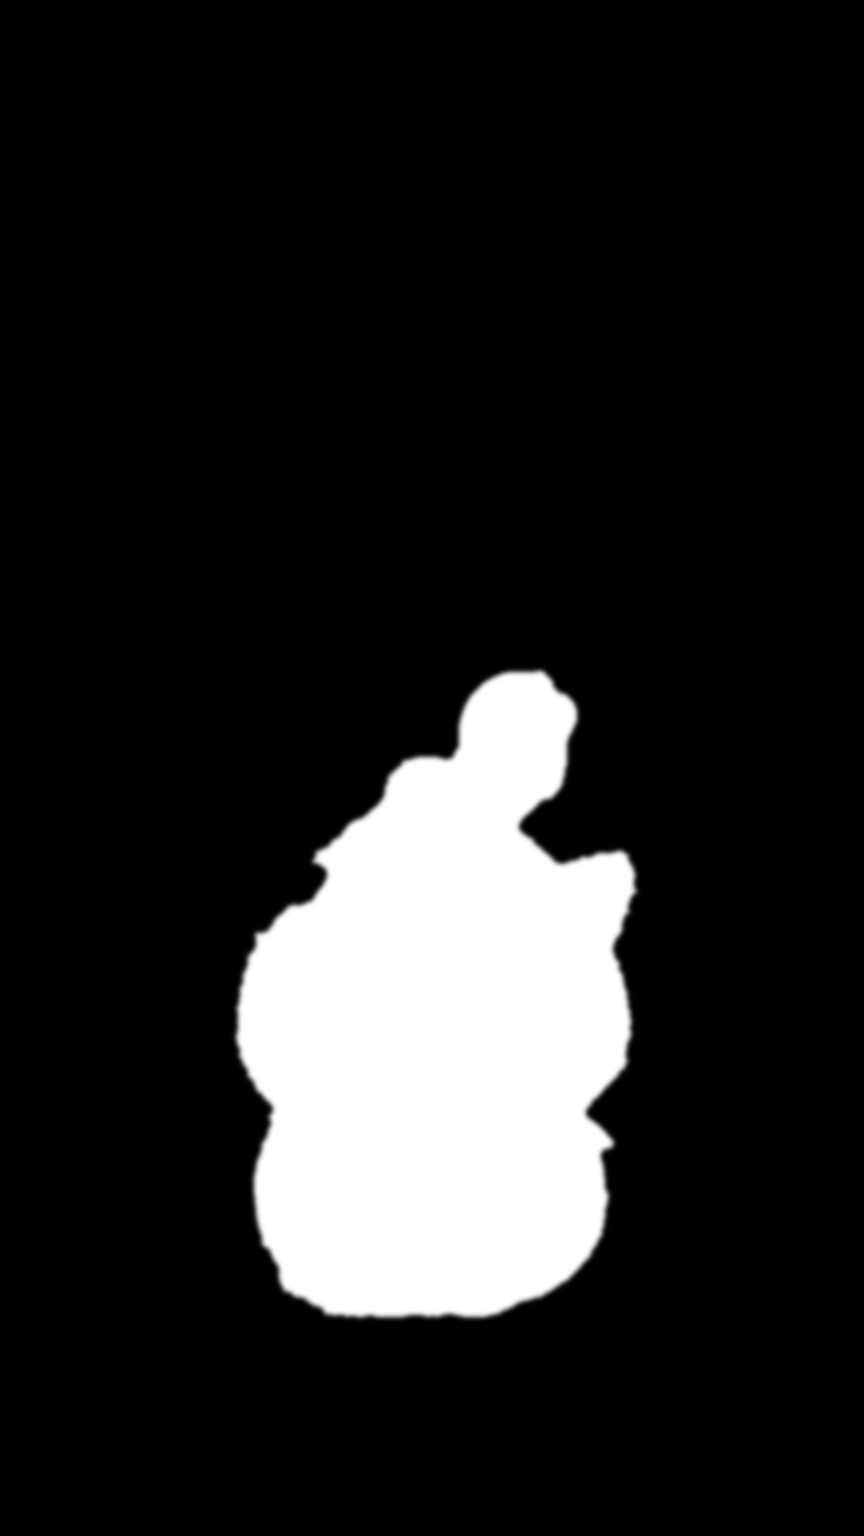
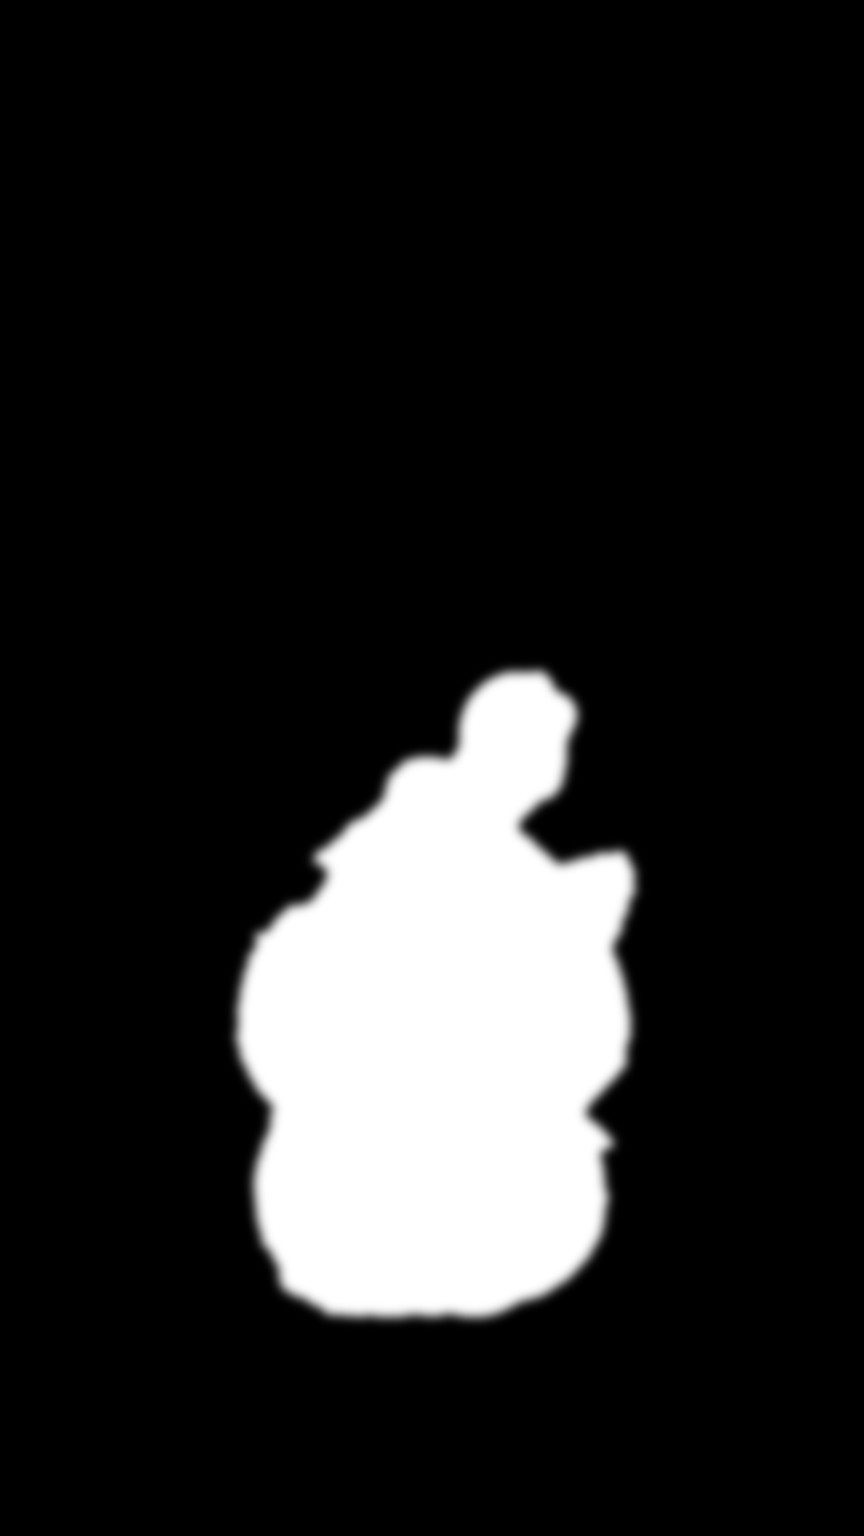
jeju_cherry: fit-to-width + reduce cat cutout look
- Add per-scene fit mode (?fit=cover|width). jeju_cherry defaults to 'width' so
  the full 9:16 composition shows instead of cover-cropping the sides on tall
  phones; the vertical margin is edge-clamped (sky/ground extend, no black bars).
- Soften the subject matte feather and lower depthScale (1.84->1.55) so the cat
  sits in the scene instead of reading as a popped-forward sticker cutout.
- Bump asset cache-buster (dio5->dio6) so the rebuilt subject.png isn't stale.

diff --git a/app.js b/app.js
@@ -24,7 +24,7 @@ if (qaMode) document.documentElement.classList.add("qa-mode");
 const P3D = sceneParam ? `./assets/photo3d_${sceneParam}/` : "./assets/photo3d/";
 // asset cache-buster: bump on any rebuilt PNG so phones don't serve a stale image
 // (index.html's ?v= only refreshes the code, not these depth/colour PNGs).
-const AV = location.protocol === "file:" ? "" : "?a=dio5";
+const AV = location.protocol === "file:" ? "" : "?a=dio6";
 // scenes that carry an idle-flick animation (assets/photo3d_<scene>/anim/manifest.json):
 // the foreground plate is swapped through a short clip every ~10s, then held.
 const ANIM_SCENES = new Set(["cherry2dio"]);
@@ -72,10 +72,17 @@ const SCENE_OVERRIDES = {
   latte2dio: { depthScale: 1.84, farScale: 0.74, focus: 0.26 },
   nila2dio: { depthScale: 1.84, farScale: 0.74, focus: 0.26 },
   cherry2dio: { depthScale: 1.84, farScale: 0.74, focus: 0.26 },
-  jeju_cherry: { depthScale: 1.84, farScale: 0.74, focus: 0.26 },
+  jeju_cherry: { depthScale: 1.55, farScale: 0.74, focus: 0.26 },
   latteval: { depthScale: 1.72, farScale: 0.68, focus: 0.28 },
 };
 Object.assign(VIEW, SCENE_OVERRIDES[sceneParam] || {});
+
+// fit mode per scene. 'cover' fills the screen (crops the 9:16 plate's sides on a
+// tall phone); 'width' fits the whole image width so the full composition shows —
+// the top/bottom margin is filled by edge-clamp (sky extends up, ground extends
+// down) so there are no black bars. URL override: ?fit=cover|width.
+const SCENE_FIT = { jeju_cherry: "width" };
+const fitMode = params.get("fit") || SCENE_FIT[sceneParam] || "cover";
 
 // Cherry's ear tips are too thin for the full depth mesh: vertices just outside
 // the matte can still be pulled by background depth, making the tip look pinned.
@@ -629,15 +636,22 @@ function resize() {
   const planeW = halfW * 2 * VIEW.pad;
   const planeH = halfH * 2 * VIEW.pad;
 
-  // cover-fit the image into the view, then scale by pad so the view shows the
-  // full cover image and the padded margin maps to image beyond it (orbit room).
+  // map the image onto the plane. k carries the orbit headroom (pad) minus the
+  // overscan margin. 'width' always fits by width (whole image visible, edge-clamp
+  // fills the vertical margin); 'cover' fills the screen, cropping the cross axis.
   const screenAspect = w / h;
-  if (screenAspect < IMG_ASPECT) {
-    cover.set(screenAspect / IMG_ASPECT, 1);
+  const k = (1 - VIEW.overscan) * VIEW.pad;
+  const byWidth = () => cover.set(k, (k * IMG_ASPECT) / screenAspect);
+  const byHeight = () => cover.set((k * screenAspect) / IMG_ASPECT, k);
+  if (fitMode === "width") {
+    byWidth();
+  } else if (fitMode === "height") {
+    byHeight();
   } else {
-    cover.set(1, IMG_ASPECT / screenAspect);
+    // cover: fill the screen by matching the limiting axis, crop the other
+    if (screenAspect < IMG_ASPECT) byHeight();
+    else byWidth();
   }
-  cover.multiplyScalar((1 - VIEW.overscan) * VIEW.pad);
 
   const segX = Math.max(140, Math.round(planeW * 150));
   const segY = Math.max(140, Math.round(planeH * 150));

diff --git a/index.html b/index.html
@@ -55,6 +55,6 @@
     </main>
 
     <script src="https://unpkg.com/lucide@0.468.0/dist/umd/lucide.min.js" defer></script>
-    <script type="module" src="./app.js?v=mesh-72"></script>
+    <script type="module" src="./app.js?v=mesh-73"></script>
   </body>
 </html>
